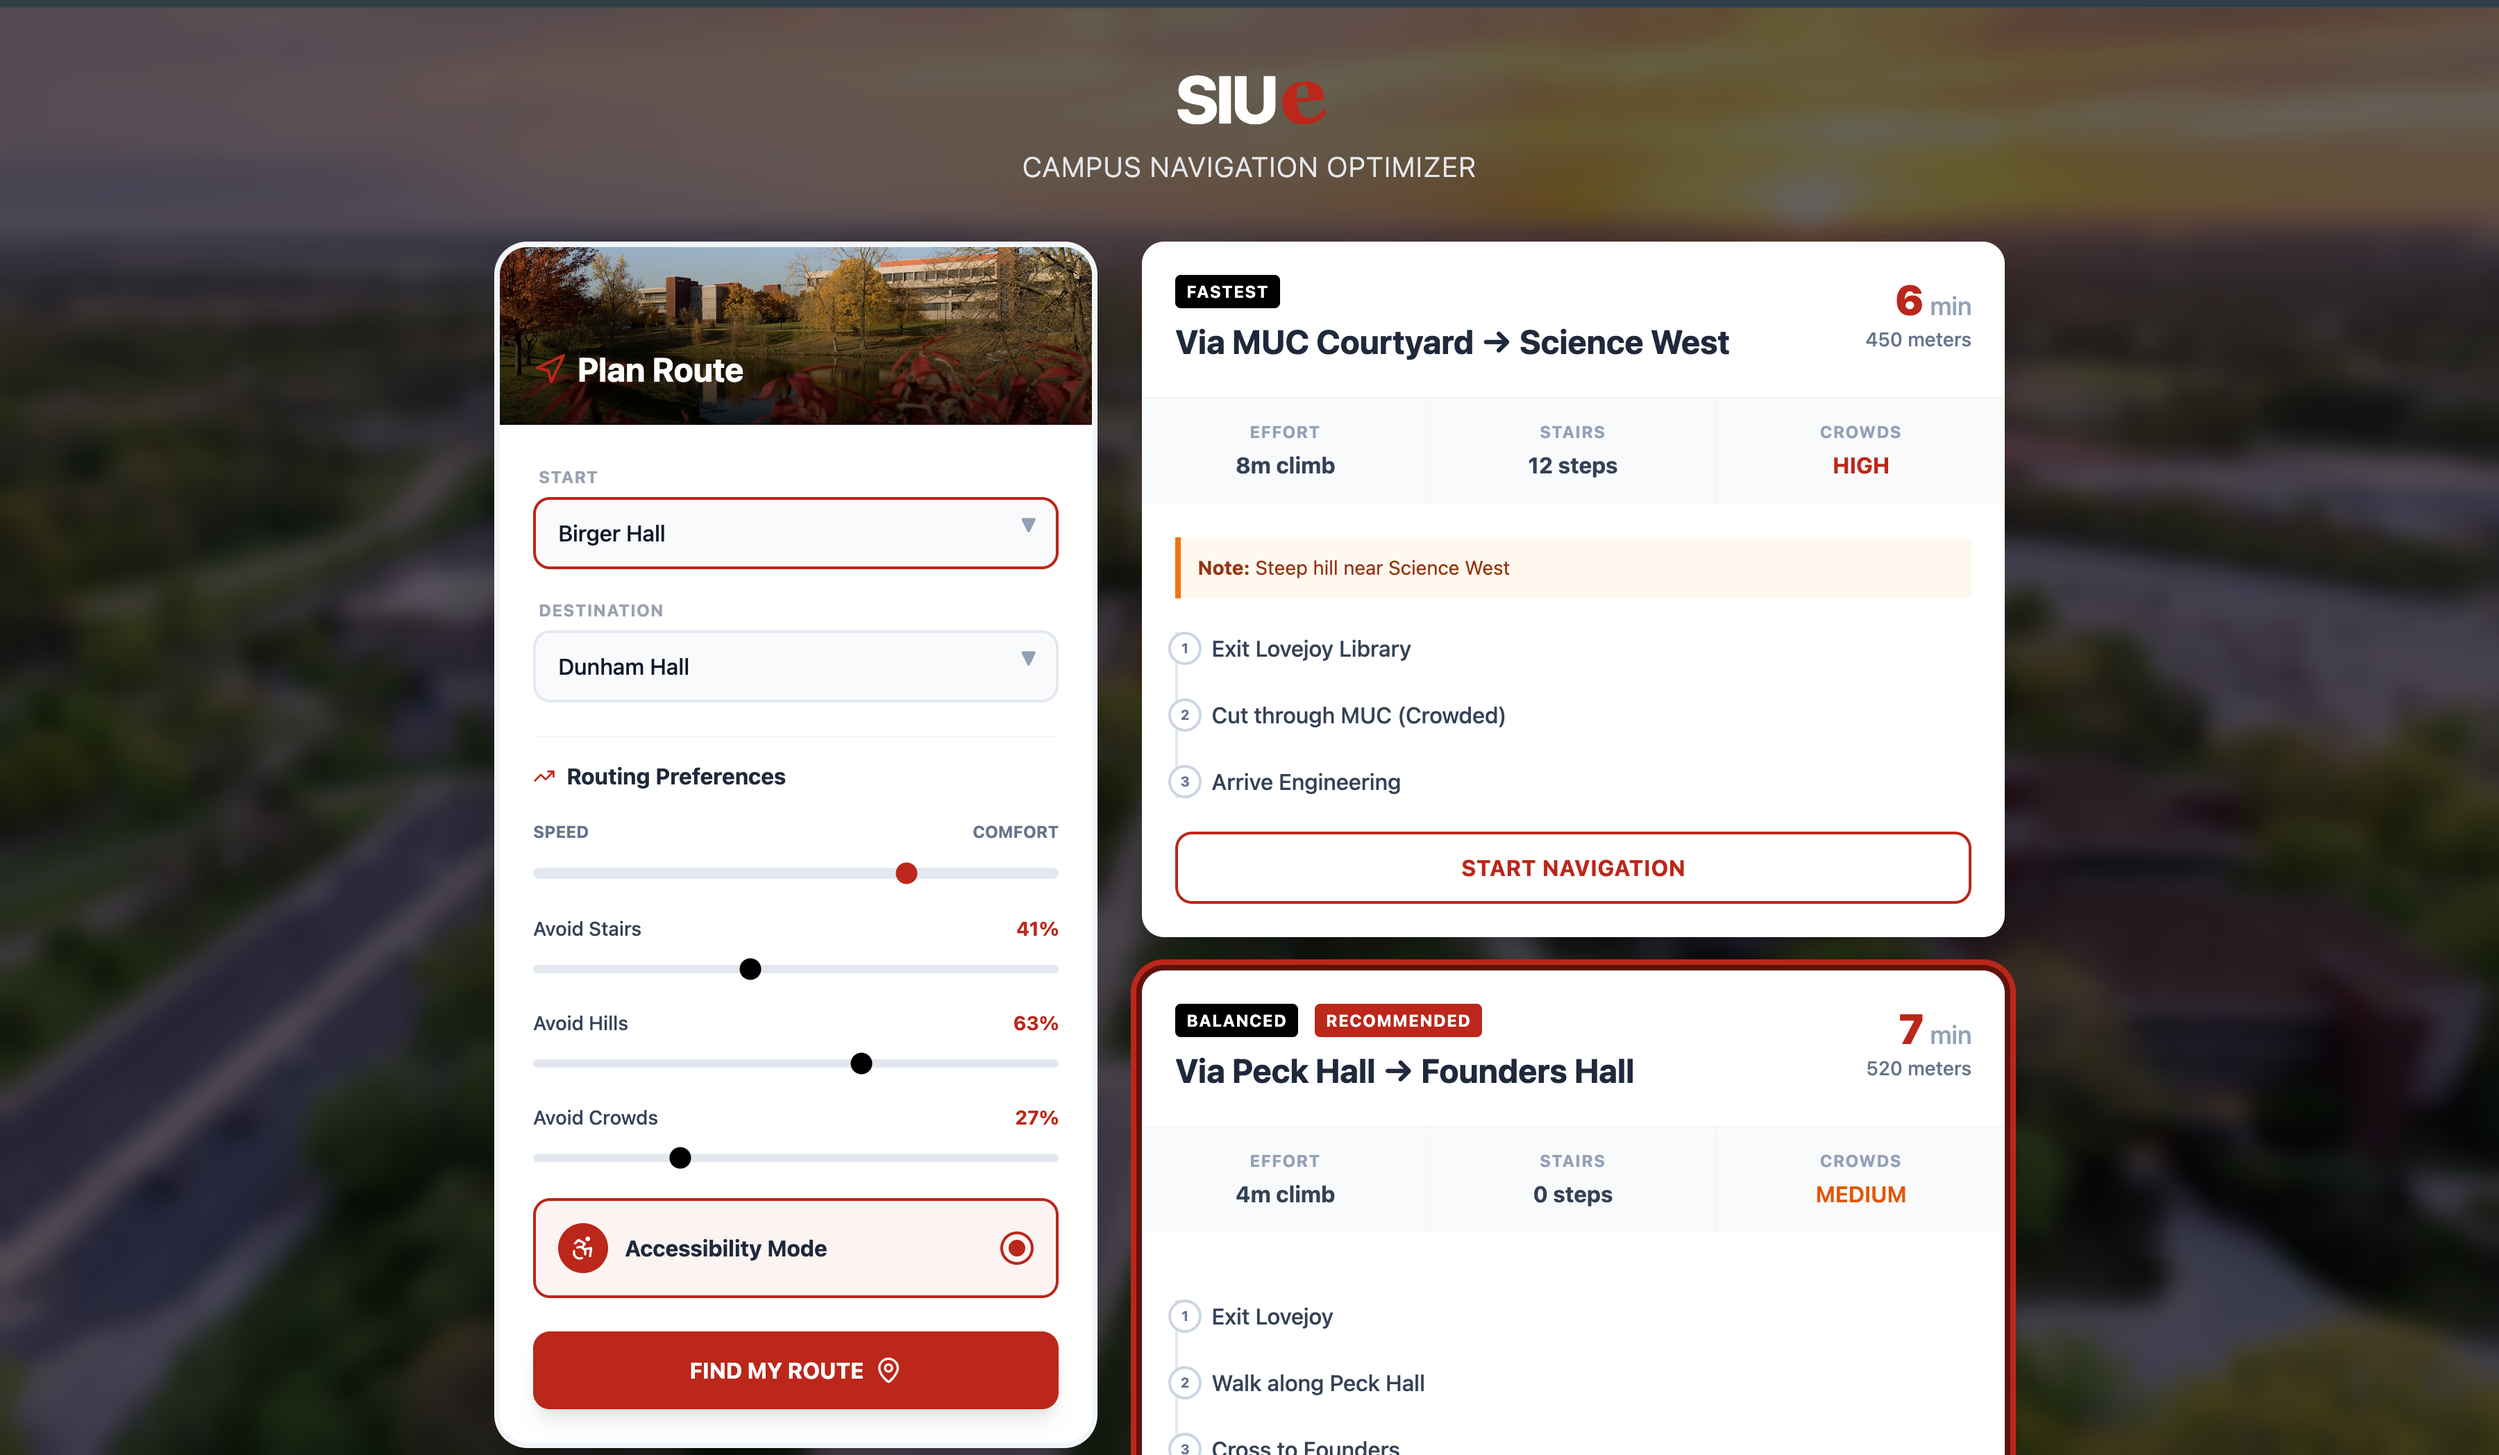
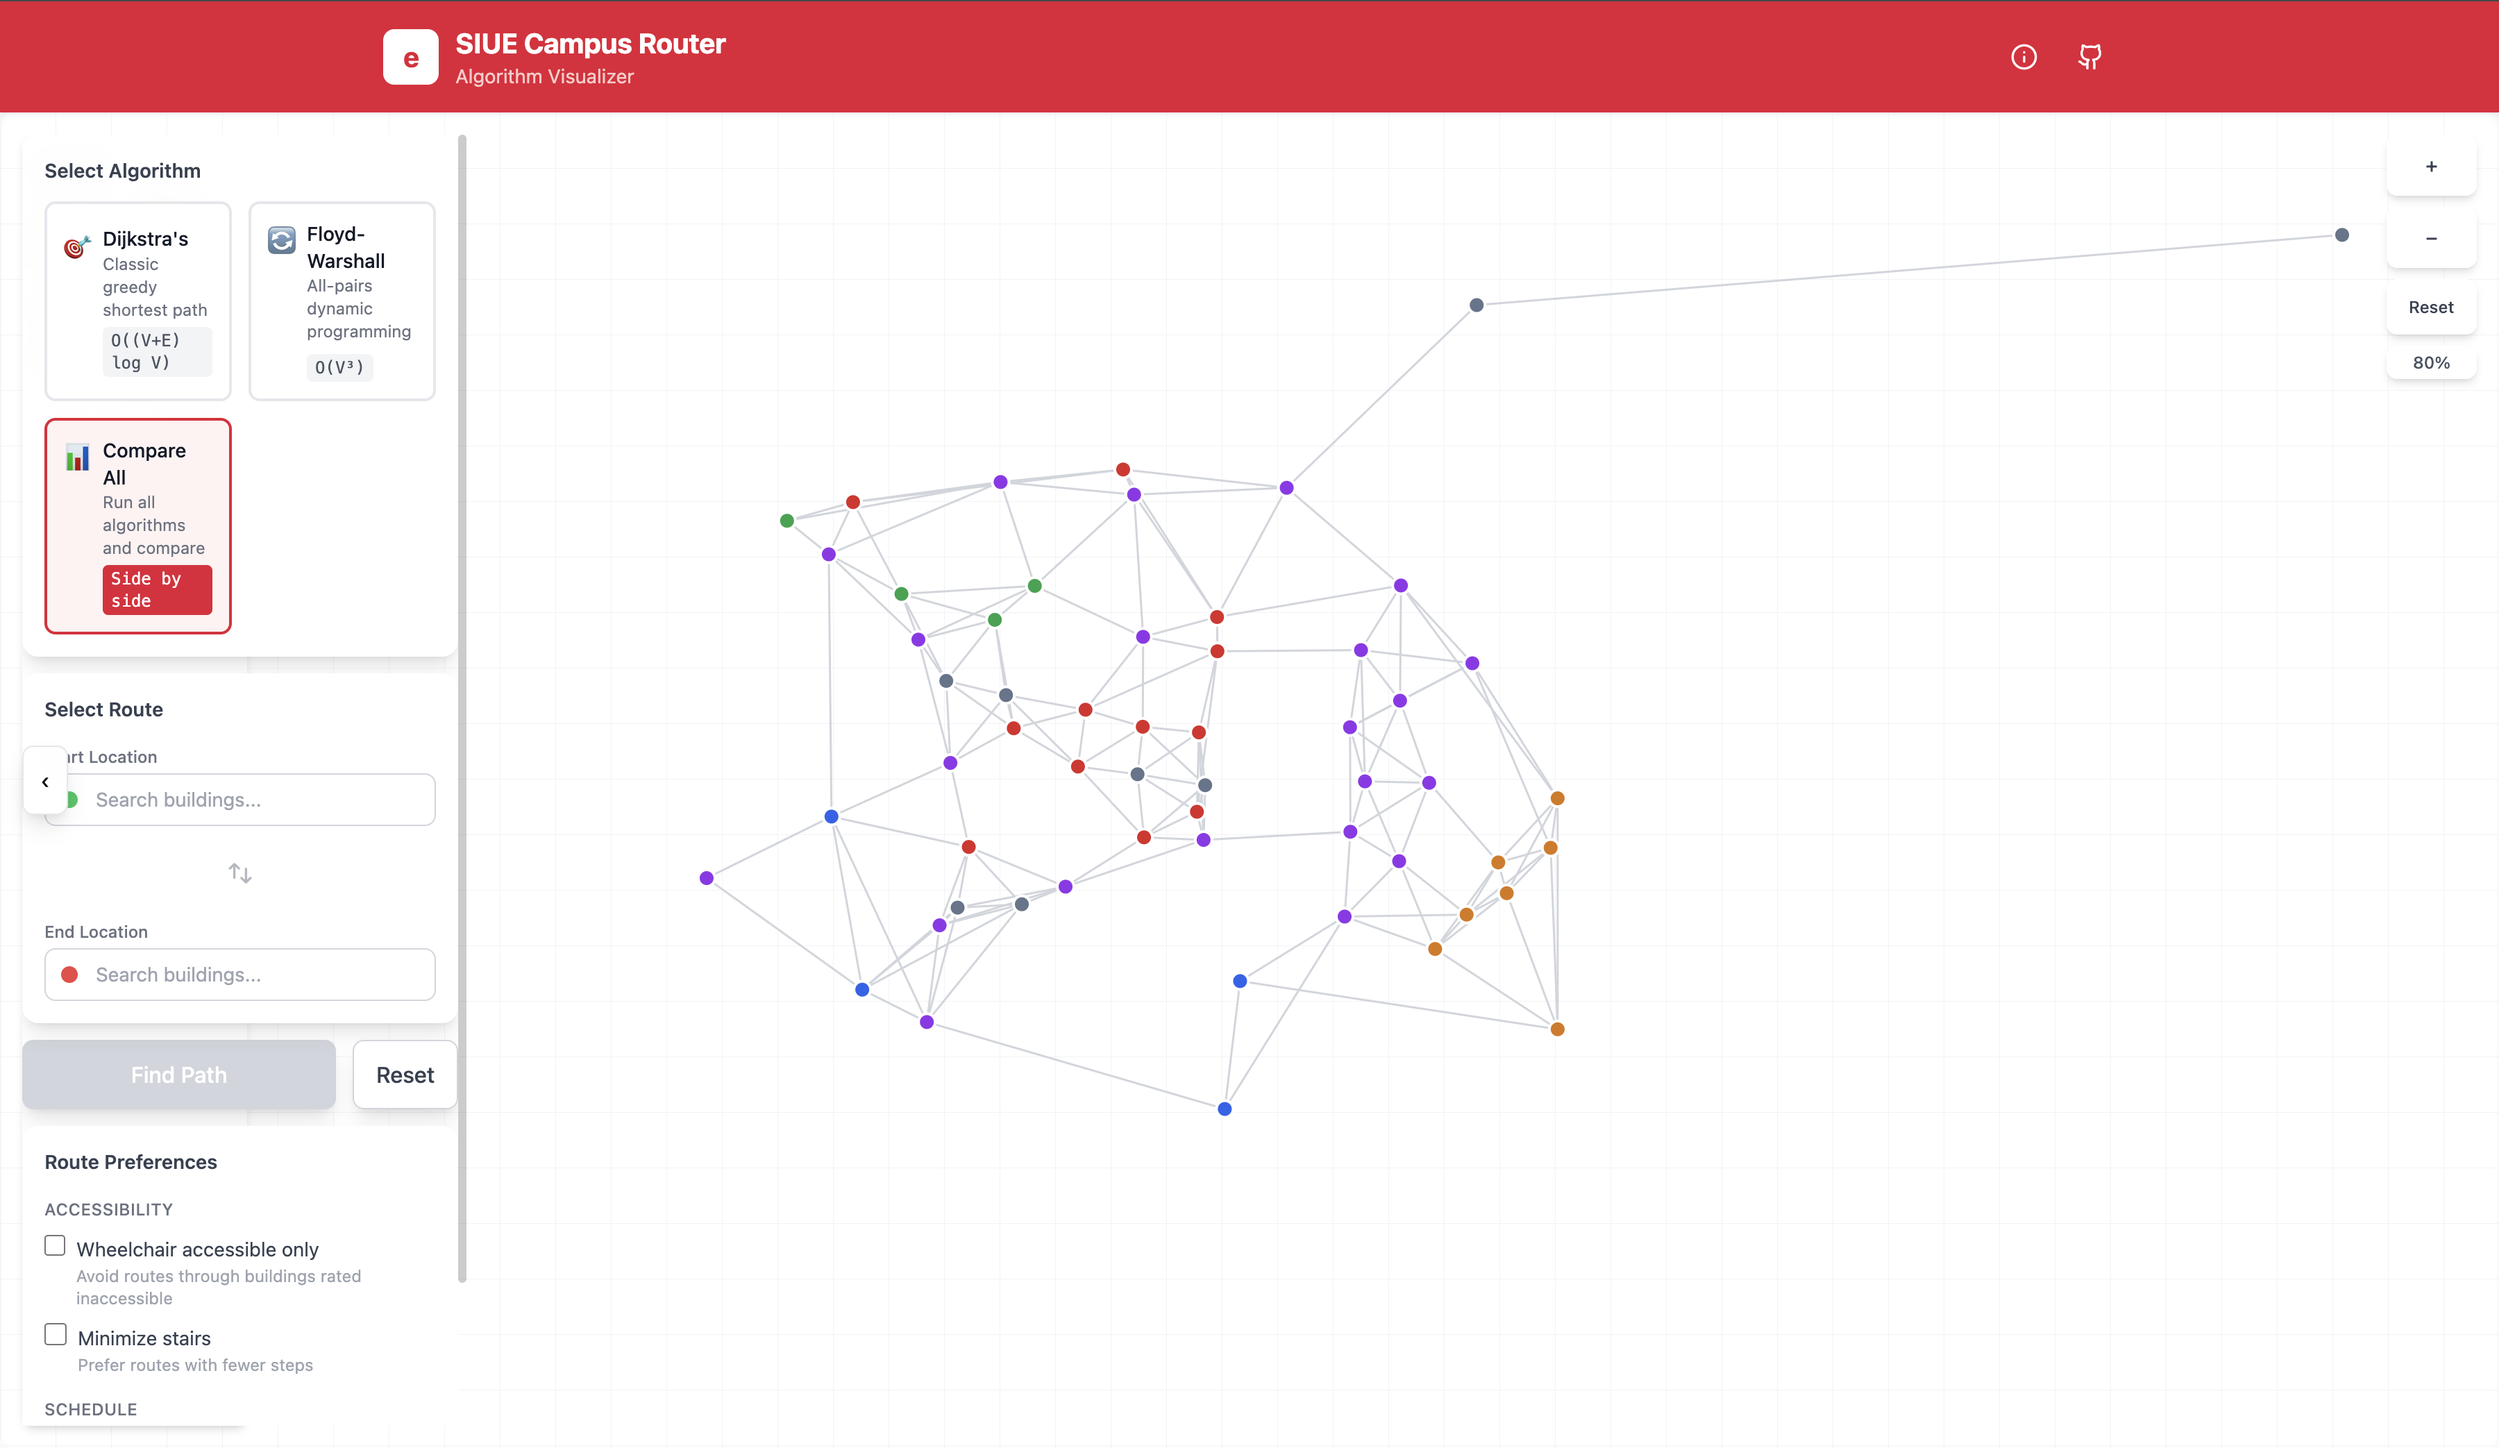
made changes to mobile view and updated projects section

diff --git a/src/components/NavBar.jsx b/src/components/NavBar.jsx
@@ -1,4 +1,5 @@
 import React, { useState, useEffect } from "react";
+import { createPortal } from "react-dom";
 import { Menu, X } from "lucide-react";
 import './navbar-fix.css';
 import ThemeToggle from "./ThemeToggle";
@@ -17,13 +18,26 @@ const NavBar = () => {
 
   useEffect(() => {
     const handleScroll = () => {
-      setIsScrolled(window.scrollY > 10);
+      if (!isMenuOpen) {
+        setIsScrolled(window.scrollY > 10);
+      }
     };
     window.addEventListener("scroll", handleScroll);
     return () => {
       window.removeEventListener("scroll", handleScroll);
     };
-  }, []);
+  }, [isMenuOpen]);
+
+  useEffect(() => {
+    if (isMenuOpen) {
+      document.body.style.overflow = "hidden";
+    } else {
+      document.body.style.overflow = "";
+    }
+    return () => {
+      document.body.style.overflow = "";
+    };
+  }, [isMenuOpen]);
 
   return (
     <nav
@@ -55,36 +69,47 @@ const NavBar = () => {
           <ThemeToggle />
         </div>
 
-        {/* mobile nav */}
-
+        {/* mobile hamburger button */}
         <button
-          onClick={() => setIsMenuOpen((prev) => !prev)}
-          className="md:hidden p-2 text-foreground z-50"
-          aria-label={isMenuOpen ? "Close menu" : "Open menu"}
+          onClick={() => setIsMenuOpen(true)}
+          className="md:hidden p-2 text-foreground"
+          aria-label="Open menu"
         >
-          {isMenuOpen ? <X size={24} /> : <Menu size={24} />}
+          <Menu size={24} />
         </button>
-
-        <div
-          className={`fixed inset-0 bg-background/95 backdrop-blur-md z-40 flex flex-col items-center justify-center transition-all duration-300 md-hidden ${isMenuOpen ? "opacity-100 pointer-events-auto" : "opacity-0 pointer-events-none"}`}
-        >
-          <div className="flex flex-col space-y-8 text-xl ">
-            {navItems.map((item, key) => {
-              return (
-                <a
-                  key={key}
-                  href={item.href}
-                  className="nav-link-fixed"
-                  onClick={() => setIsMenuOpen(false)}
-                >
-                  {item.name}
-                </a>
-              );
-            })}
-            <ThemeToggle />
-          </div>
-        </div>
       </div>
+
+      {createPortal(
+        <div
+          className={`fixed inset-0 bg-background/95 backdrop-blur-md z-50 flex flex-col items-center justify-center transition-all duration-300 md:hidden ${isMenuOpen ? "opacity-100 pointer-events-auto" : "opacity-0 pointer-events-none"}`}
+        >
+          {/* close button inside overlay, top-right */}
+          <button
+            onClick={() => setIsMenuOpen(false)}
+            className="absolute top-4 right-4 p-2 text-foreground"
+            aria-label="Close menu"
+          >
+            <X size={24} />
+          </button>
+
+          <div className="flex flex-col items-center space-y-8 text-xl">
+            {navItems.map((item, key) => (
+              <a
+                key={key}
+                href={item.href}
+                className="nav-link-fixed"
+                onClick={() => setIsMenuOpen(false)}
+              >
+                {item.name}
+              </a>
+            ))}
+            <div className="pt-2">
+              <ThemeToggle />
+            </div>
+          </div>
+        </div>,
+        document.body
+      )}
     </nav>
   );
 };

diff --git a/src/components/ProjectsSection.jsx b/src/components/ProjectsSection.jsx
@@ -4,13 +4,13 @@ import React from "react";
 const projects = [
   {
     id: 1,
-    title: "Weather Forecast App",
+    title: "FairDash",
     description:
-      "A sleek and modern weather application built with React and Tailwind CSS. Features real-time weather data with a beautiful glassmorphism design, search functionality for any city worldwide, and displays temperature, humidity, and wind speed. The app provides accurate weather information with an intuitive purple gradient interface optimized for both desktop and mobile devices.",
-    image: "/projects/weather-app.png",
-    tags: ["React", "Tailwind CSS", "Weather API"],
-    demoUrl: "#", // Update later
-    gitHubUrl: "#", // Update later
+      "A modern food delivery app for fair foods with a striking neon-themed design. Features a dynamic home page with search and categories, a full menu system with filtering, and a persistent shopping cart. Built with React 18, Context API, and React Router — following FairDash brand guidelines with Bebas Neue typography, #FF0077 neon pink accents, and a dark night market aesthetic.",
+    image: "/projects/fairdash.png",
+    tags: ["React", "Tailwind CSS", "JavaScript"],
+    demoUrl: "https://fairdash.netlify.app/",
+    gitHubUrl: "https://github.com/Ferannn-TDE/FairDash",
   },
   {
     id: 2,
